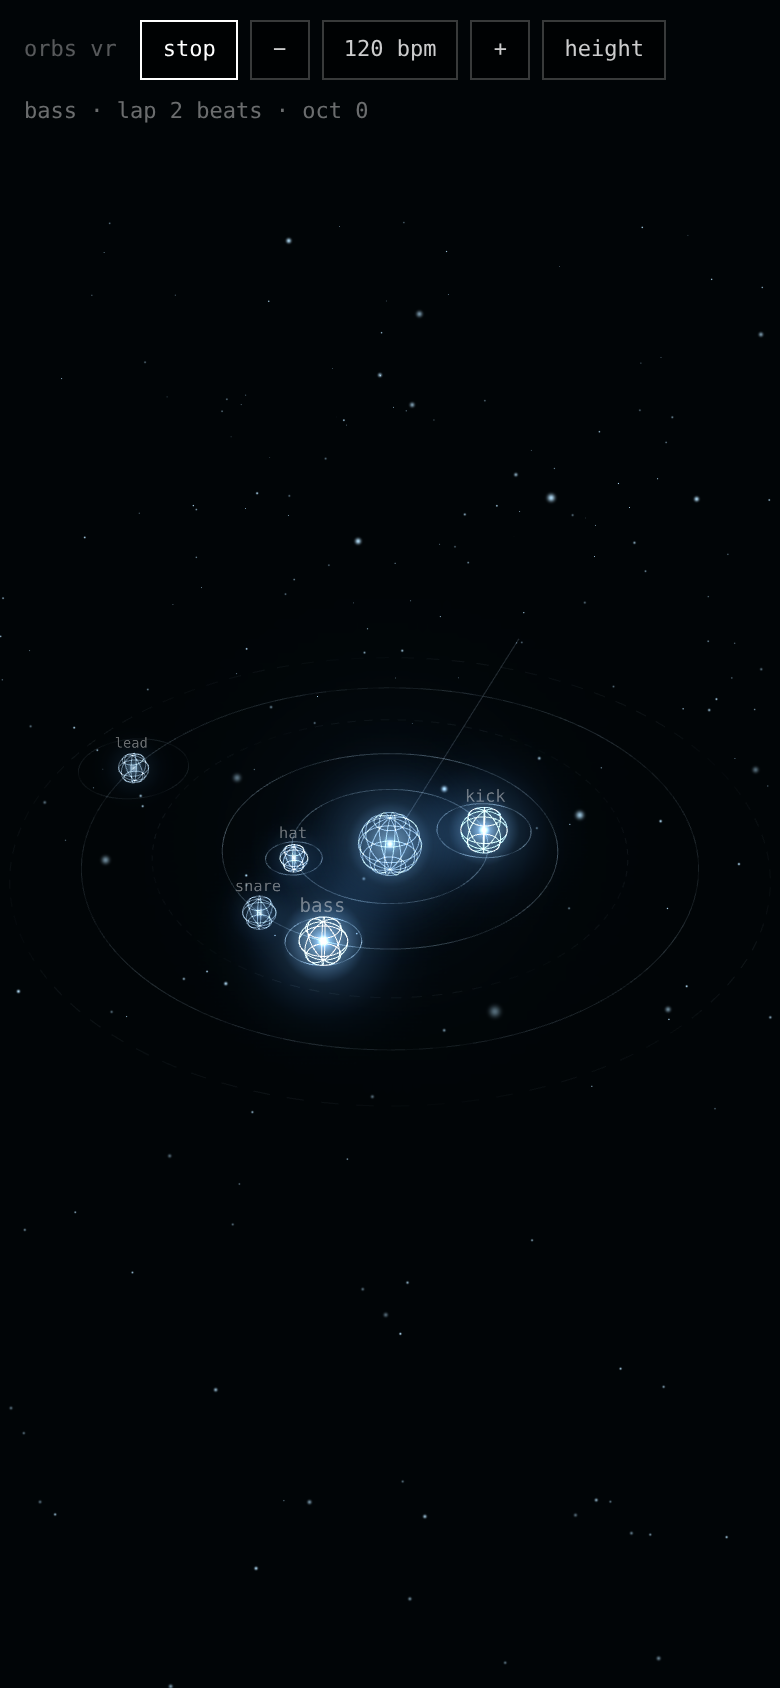
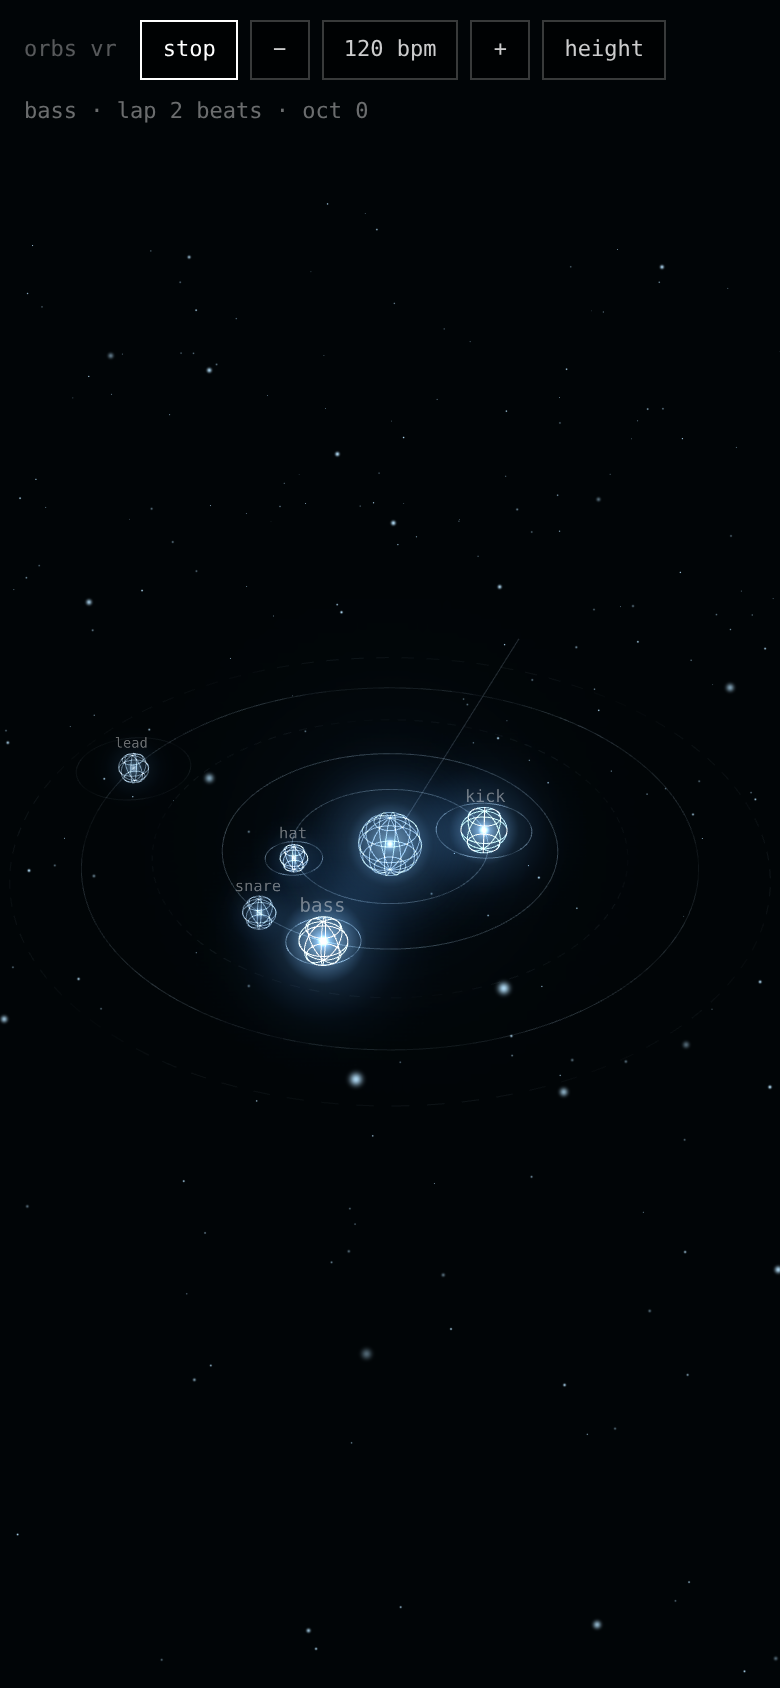
world-locked placement, place here, anchors

diff --git a/index.html b/index.html
@@ -197,10 +197,12 @@ const P = DEF.map(d => {
   return p;
 });
 const hitMeshes = P.map(p => p.hit);
-// in-world transport (used in xr, where the dom bar is gone): play/stop + bpm − / +
-const xrUI = new THREE.Group(); world.add(xrUI); xrUI.visible = false; xrUI.position.set(0, -.26, 0);
-const xrBtn = (txt, x, fn) => { const s = textSprite(txt, .8, .045); s.position.x = x; const hm = new THREE.Mesh(new THREE.BoxGeometry(.14, .06, .04), new THREE.MeshBasicMaterial({ visible: false })); hm.position.x = x; hm.userData.fn = fn; xrUI.add(s, hm); s.hm = hm; return s; };
+// in-world panel (xr has no dom bar): play/stop · bpm − / + · place here. it sits on the left wrist (or floats, world-locked, where you entered)
+const xrUI = new THREE.Group(); scene.add(xrUI); xrUI.visible = false;
+const xrBtn = (txt, x, fn, y = 0) => { const s = textSprite(txt, .8, .045); s.position.set(x, y, 0); const hm = new THREE.Mesh(new THREE.BoxGeometry(.14, .06, .04), new THREE.MeshBasicMaterial({ visible: false })); hm.position.set(x, y, 0); hm.userData.fn = fn; hm.userData.label = txt; xrUI.add(s, hm); s.hm = hm; return s; };
 const xrPlay = xrBtn('play', -.2, () => S.playing ? stop() : play()), xrMinus = xrBtn('−', .02, () => setBpm(S.bpm - 5)), xrBpm = xrBtn('120 bpm', .15, () => {}), xrPlus = xrBtn('+', .3, () => setBpm(S.bpm + 5));
+const xrPlace = xrBtn('place here', .05, () => requestPlace(null), -.08);
+const xrStatus = textSprite('', .45, .03); xrStatus.position.set(.05, .07, 0); xrUI.add(xrStatus);
 const xrHits = xrUI.children.filter(c => c.isMesh);
 
 // ---- camera (desktop / phone): orbit by dragging empty space, wheel / pinch zoom ----
@@ -274,11 +276,12 @@ const XRI = [0, 1].map(i => {
   grip.add(ctrlFactory.createControllerModel(grip)); hand.add(handFactory.createHandModel(hand, 'spheres'));
   scene.add(ctrl, grip, hand);
   const h = { i, ctrl, grip, hand, line, held: null, off: new THREE.Vector3(), inputSource: null, isHand: false };
-  ctrl.addEventListener('connected', e => { h.inputSource = e.data; h.isHand = !!e.data.hand; line.visible = !h.isHand; });
+  ctrl.addEventListener('connected', e => { h.inputSource = e.data; h.isHand = !!e.data.hand; h.handed = e.data.handedness; line.visible = !h.isHand; if (renderer.xr.isPresenting) dockUI(); });
   ctrl.addEventListener('disconnected', () => { if (h.held) grabEnd(h.held); h.held = null; h.inputSource = null; });
-  const start = () => { if (h.held || h.isHand) return; xrGrab(h, grip.position.lengthSq() ? grip : ctrl, ctrl); };
-  ctrl.addEventListener('squeezestart', start); ctrl.addEventListener('selectstart', e => { if (!xrUiPress(ctrl) ) start(); });
-  ctrl.addEventListener('squeezeend', () => xrRelease(h)); ctrl.addEventListener('selectend', () => xrRelease(h));
+  const start = () => { if (h.held || h.isHand) return false; return xrGrab(h, grip.position.lengthSq() ? grip : ctrl, ctrl); };
+  ctrl.addEventListener('squeezestart', () => { if (!start() && !h.isHand) h.pressT = performance.now(); }); // squeeze on empty space, held 0.7 s = place here
+  ctrl.addEventListener('selectstart', e => { if (!xrUiPress(ctrl)) start(); });
+  ctrl.addEventListener('squeezeend', () => { h.pressT = 0; xrRelease(h); }); ctrl.addEventListener('selectend', () => xrRelease(h));
   hand.addEventListener('pinchstart', () => { if (h.held) return; const p = pinchPoint(hand); if (!p) return; if (xrUiTouch(p)) return; xrGrabAt(h, p, null); });
   hand.addEventListener('pinchend', () => xrRelease(h));
   return h;
@@ -305,15 +308,84 @@ function xrFollow() { for (const h of XRI) { if (!h.held) continue; let wp = nul
 
 async function xrSupported(m) { try { return !!(navigator.xr && await navigator.xr.isSessionSupported(m)); } catch (e) { return false; } }
 let xrMode = null;
-const XR_S = 1.6, XR_Y = 1.3, XR_Z = -0.95; // sun 0.95 m in front at 1.3 m; you stand between the 2- and 4-beat rings
+// ---- world-locked placement ----
+// the system is a fixed object in the room: placed once in 'local-floor' space (sun at 1.3 m), never moved by the head.
+// order on entry: saved xr anchor → saved local-floor offset → centre of the bounded play area → the spot you stand on.
+// 'place here' (wrist button, 0.7 s squeeze on empty space, or thumbstick click) moves it to where you point at the floor, or where you stand.
+const XR_S = 1.6, XR_Y = 1.3, PLACE_KEY = 'orbsvr.place.v1';
+const X = { session: null, ref: null, bounded: undefined, placed: false, anchor: null, pending: null, head: new THREE.Vector3(), src: '', t0: 0 };
+const loadPlace = () => { try { return JSON.parse(localStorage.getItem(PLACE_KEY) || 'null'); } catch (e) { return null; } };
+const savePlace = o => { try { localStorage.setItem(PLACE_KEY, JSON.stringify(Object.assign({ t: Date.now() }, o))); } catch (e) {} };
+const yawOf = q => { const e = new THREE.Euler().setFromQuaternion(q, 'YXZ'); return e.y; };
+function setWorld(x, z, yaw, src) { world.position.set(x, XR_Y, z); world.quaternion.setFromAxisAngle(new THREE.Vector3(0, 1, 0), yaw || 0); X.placed = true; X.src = src; xrStatus.set(src); }
+function requestPlace(h) { // where you point at the floor (within 8 m), else where you stand
+  let x = X.head.x, z = X.head.z, how = 'placed where you stand';
+  if (h) { const m = new THREE.Matrix4().extractRotation(h.ctrl.matrixWorld), o = new THREE.Vector3().setFromMatrixPosition(h.ctrl.matrixWorld), d = new THREE.Vector3(0, 0, -1).applyMatrix4(m);
+    if (d.y < -.15) { const t = -o.y / d.y; if (t < 8) { x = o.x + d.x * t; z = o.z + d.z * t; how = 'placed where you point'; } } }
+  setWorld(x, z, yawOf(world.quaternion), how); X.pending = { x, z, yaw: yawOf(world.quaternion) }; // saved + anchored on the next frame (needs an XRFrame)
+}
+function persist(frame, x, z, yaw) {
+  const old = loadPlace(); savePlace({ x, z, yaw, space: 'local-floor' });
+  if (!frame.createAnchor || !X.ref) return;
+  const q = new THREE.Quaternion().setFromAxisAngle(new THREE.Vector3(0, 1, 0), yaw);
+  frame.createAnchor(new XRRigidTransform({ x, y: XR_Y, z, w: 1 }, { x: q.x, y: q.y, z: q.z, w: q.w }), X.ref).then(async a => {
+    if (X.anchor && X.anchor.delete) try { X.anchor.delete(); } catch (e) {}
+    X.anchor = a; xrStatus.set(X.src + ' · anchored');
+    if (a.requestPersistentHandle) { try { const uuid = await a.requestPersistentHandle(); savePlace({ x, z, yaw, space: 'local-floor', anchor: uuid }); if (old && old.anchor && old.anchor !== uuid && X.session.deletePersistentAnchor) X.session.deletePersistentAnchor(old.anchor).catch(() => {}); } catch (e) {} }
+  }).catch(() => {});
+}
+function initialPlace(frame) {
+  const saved = loadPlace();
+  if (saved && isFinite(saved.x) && isFinite(saved.z)) {
+    setWorld(saved.x, saved.z, saved.yaw || 0, 'restored');
+    if (saved.anchor && X.session.restorePersistentAnchor) X.session.restorePersistentAnchor(saved.anchor).then(a => { X.anchor = a; xrStatus.set('restored · anchored'); }).catch(() => persist(frame, saved.x, saved.z, saved.yaw || 0));
+    else X.pending = { x: saved.x, z: saved.z, yaw: saved.yaw || 0 };
+    return;
+  }
+  if (X.bounded === undefined && performance.now() - X.t0 < 800) return; // give bounded-floor a moment
+  if (X.bounded && X.bounded.boundsGeometry && X.bounded.boundsGeometry.length >= 3) { // centroid of the play area, converted into local-floor
+    const pose = frame.getPose(X.bounded, X.ref);
+    if (pose) { let cx = 0, cz = 0; const b = X.bounded.boundsGeometry; for (const p of b) { cx += p.x; cz += p.z; } const c = new THREE.Vector3(cx / b.length, 0, cz / b.length).applyMatrix4(new THREE.Matrix4().fromArray(pose.transform.matrix));
+      setWorld(c.x, c.z, 0, 'play-area centre'); X.pending = { x: c.x, z: c.z, yaw: 0 }; return; }
+  }
+  setWorld(X.head.x, X.head.z, 0, 'placed where you stood'); X.pending = { x: X.head.x, z: X.head.z, yaw: 0 };
+}
+function onRefReset(e) { // quest recentring: keep the system on the same real-world spot
+  if (X.anchor) return; // an anchor is tracked by the headset and already lands in the right place
+  if (!e.transform) return;
+  const M = new THREE.Matrix4().fromArray(e.transform.inverse.matrix); world.position.applyMatrix4(M); world.position.y = XR_Y;
+  const yaw = yawOf(world.quaternion) + yawOf(new THREE.Quaternion(e.transform.inverse.orientation.x, e.transform.inverse.orientation.y, e.transform.inverse.orientation.z, e.transform.inverse.orientation.w));
+  world.quaternion.setFromAxisAngle(new THREE.Vector3(0, 1, 0), yaw); savePlace({ x: world.position.x, z: world.position.z, yaw, space: 'local-floor' });
+}
+function xrPlaceFrame(frame) { // runs every xr frame
+  if (!frame || !X.ref) return;
+  const vp = frame.getViewerPose(X.ref); if (vp) { const p = vp.transform.position; X.head.set(p.x, p.y, p.z); }
+  if (!X.placed) initialPlace(frame);
+  if (X.pending) { const q = X.pending; X.pending = null; persist(frame, q.x, q.z, q.yaw); }
+  if (X.anchor && frame.trackedAnchors && frame.trackedAnchors.has(X.anchor)) { const ap = frame.getPose(X.anchor.anchorSpace, X.ref); if (ap) { const t = ap.transform; world.position.set(t.position.x, t.position.y, t.position.z); world.quaternion.set(t.orientation.x, t.orientation.y, t.orientation.z, t.orientation.w); } }
+  for (const h of XRI) { // long squeeze on empty space / thumbstick click → place here
+    if (h.pressT && !h.held && performance.now() - h.pressT > 700) { h.pressT = 0; requestPlace(h); }
+    const gp = h.inputSource && h.inputSource.gamepad, b = gp && gp.buttons[3], down = !!(b && b.pressed);
+    if (down && !h.stick) requestPlace(h); h.stick = down;
+  }
+}
+function dockUI() { // left wrist if there is a left controller/hand, else a world-locked panel where you entered
+  const L = XRI.find(h => h.inputSource && h.handed === 'left');
+  if (L) { L.grip.add(xrUI); xrUI.position.set(0, .06, .07); xrUI.rotation.set(-.9, 0, 0); xrUI.scale.setScalar(.55); }
+  else { scene.add(xrUI); xrUI.position.set(X.head.x, 1.0, X.head.z - .5); xrUI.rotation.set(-.5, 0, 0); xrUI.scale.setScalar(.8); }
+}
 async function enterXR(m) {
   initAudio(); if (ac.state !== 'running') ac.resume();
-  const opt = { optionalFeatures: ['local-floor', 'bounded-floor', 'hand-tracking'] };
+  const opt = { optionalFeatures: ['local-floor', 'bounded-floor', 'hand-tracking', 'anchors'] };
   const s = await navigator.xr.requestSession(m, opt);
   xrMode = m; await renderer.xr.setSession(s);
-  world.position.set(0, XR_Y, XR_Z); world.scale.setScalar(XR_S); // stand inside: rings 0.5–2.1 m wide around you, planets 0.8–1.8 m high
-  xrUI.visible = true; if (m === 'immersive-ar') { renderer.setClearColor(0x000000, 0); scene.background = null; }
-  s.addEventListener('end', () => { xrMode = null; world.position.set(0, 0, 0); world.scale.setScalar(1); xrUI.visible = false; renderer.setClearColor(BG, 1); for (const h of XRI) xrRelease(h); ui(); });
+  Object.assign(X, { session: s, ref: renderer.xr.getReferenceSpace(), bounded: undefined, placed: false, anchor: null, pending: null, t0: performance.now() });
+  s.requestReferenceSpace('bounded-floor').then(b => X.bounded = b, () => X.bounded = null);
+  X.ref.addEventListener('reset', onRefReset);
+  world.scale.setScalar(XR_S); // planets 0.8–1.8 m high, rings 0.5–2.1 m out from the sun
+  xrUI.visible = true; dockUI(); if (m === 'immersive-ar') { renderer.setClearColor(0x000000, 0); scene.background = null; }
+  s.addEventListener('end', () => { xrMode = null; if (X.ref) X.ref.removeEventListener('reset', onRefReset); if (X.anchor && X.anchor.delete) try { X.anchor.delete(); } catch (e) {} Object.assign(X, { session: null, ref: null, anchor: null, placed: false });
+    world.position.set(0, 0, 0); world.quaternion.identity(); world.scale.setScalar(1); xrUI.visible = false; renderer.setClearColor(BG, 1); for (const h of XRI) xrRelease(h); ui(); });
   ui(); return s;
 }
 xrSupported('immersive-vr').then(ok => { $('evr').hidden = !ok; });
@@ -342,9 +414,9 @@ ui();
 
 // ---- frame loop ----
 const clock = new THREE.Clock();
-renderer.setAnimationLoop(() => {
+renderer.setAnimationLoop((time, frame) => {
   const dt = Math.min(.05, clock.getDelta()), beat = curBeat(), now = ac ? ac.currentTime : 0;
-  if (renderer.xr.isPresenting) xrFollow();
+  if (renderer.xr.isPresenting) { xrPlaceFrame(frame); xrFollow(); }
   while (S.flashes.length && S.flashes[0].t <= now) { const f = S.flashes.shift(); f.p.flash = Math.max(f.p.flash, .4 + .6 * f.v); f.p.rip = 0; }
   if (S.flashes.length > 400) S.flashes.splice(0, S.flashes.length - 400);
   const g = S.grabbed;
@@ -368,7 +440,7 @@ renderer.setAnimationLoop(() => {
   renderer.render(scene, camera);
 });
 const info = () => P.map(p => ({ id: p.id, lap: p.lap, r: +p.r.toFixed(3), rT: +p.rT.toFixed(3), oct: p.oct, y: +p.y.toFixed(3) }));
-window.VR = { XR_S, stars, S, P, LAPS, bandR, play, stop, setBpm, info, renderer, camera, world, enterXR, XRI, get ac() { return ac; }, get analyser() { return analyser; },
+window.VR = { XR_S, X, xrUI, PLACE_KEY, requestPlace, onRefReset, stars, S, P, LAPS, bandR, play, stop, setBpm, info, renderer, camera, world, enterXR, XRI, get ac() { return ac; }, get analyser() { return analyser; },
   screenOf(x, y, z) { const v = new THREE.Vector3(x, y, z); world.localToWorld(v); v.project(camera); return { x: (v.x + 1) / 2 * innerWidth, y: (1 - v.y) / 2 * innerHeight }; },
   planetScreen(id) { const p = P.find(q => q.id === id); return this.screenOf(p.x, p.y, p.z); },
   planetWorld(id) { const p = P.find(q => q.id === id); return wpos(p.g); } };
